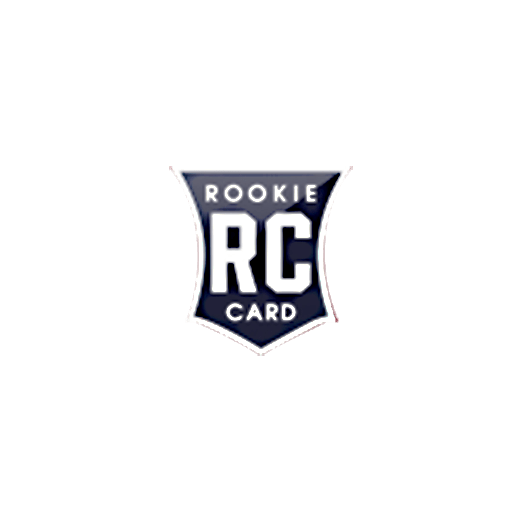
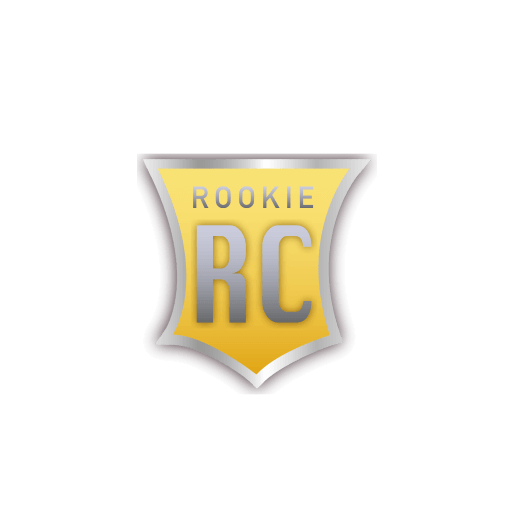
搓卡调整

Changed region(s): [[0.249, 0.2802, 0.7471, 0.7782]]

diff --git a/src/pages/drawCard/drawCard.vue b/src/pages/drawCard/drawCard.vue
@@ -3,7 +3,7 @@
  * @Author: wjw
  * @Date: 2022-11-16 11:38:59
  * @LastEditors: Please set LastEditors
- * @LastEditTime: 2023-05-08 17:43:35
+ * @LastEditTime: 2023-05-09 17:52:35
  * Copyright: 2022 .
  * @Descripttion: 
 -->
@@ -58,6 +58,7 @@
           <animationCard v-else-if="item.color=='gold'&&animationSwitch" :start="item.index==cardData.step&&animationStart" :cardMove="item.index==cardData.step+1&&cardMove" :data="{team:(item.extra&&item.extra.team)?item.extra.team:'',position:(item.extra&&item.extra.position)?item.extra.position:'',rc:item.rc}" @over="animationStart=false">
             <view class="movable-box movable-box-gold">
               <view class="movable-pic-bg"></view>
+              <view v-if="item.rc" class="movable-rc" :class="`icon-rc-${item.color}`" />
               <image class="movable-pic" :src="item.pic||defultPic"/>
               <view class="movable-name" :class="{'long-name':ifNameTooLong(item.player)}">{{item.player}}</view>
             </view>
@@ -68,6 +69,7 @@
             :class="[(item.index == cardData.step + 1)&&item.color=='gold'?'container':'',item.color==''?'movable-box-silver':'movable-box-' + item.color]"
           >
             <view class="movable-pic-bg"></view>
+            <view v-if="item.rc" class="movable-rc" :class="`icon-rc-${item.color}`" />
             <image class="movable-pic" :src="item.pic||defultPic"/>
             <view class="movable-name" :class="{'long-name':ifNameTooLong(item.player)}">{{item.player}}</view>
           </view>
@@ -500,6 +502,20 @@
     height: 795rpx;
     position: relative;
   }
+  .movable-rc{
+    width: 80rpx;
+    height:80rpx;
+    position: absolute;
+    top:29rpx;
+    right:27rpx;
+    z-index: 2;
+  }
+  .icon-rc-blue{
+    background:url(@/static/drawCard/rc_blue.png) no-repeat center / 100% 100%;
+  }
+  .icon-rc-gold{
+    background:url(@/static/drawCard/rc_gold.png) no-repeat center / 100% 100%;
+  }
   .movable-pic-bg{
     width:508rpx;
     height: 722rpx;
@@ -600,7 +616,7 @@
     margin-left: -262rpx;
   }
   .cardname{
-    width: 524rpx;
+    width: 520rpx;
     height: 152rpx;
     background: rgba(0,0,0,0.36);
     border: 2rpx solid #FFFFFF;
